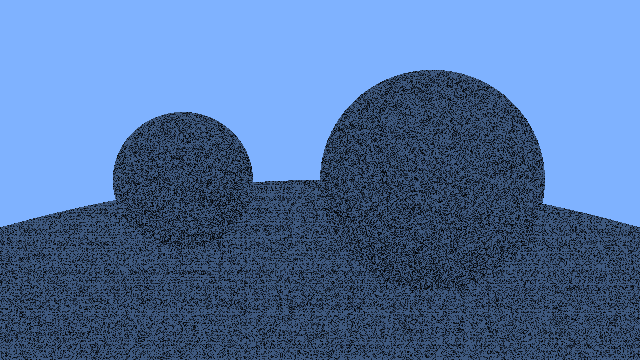
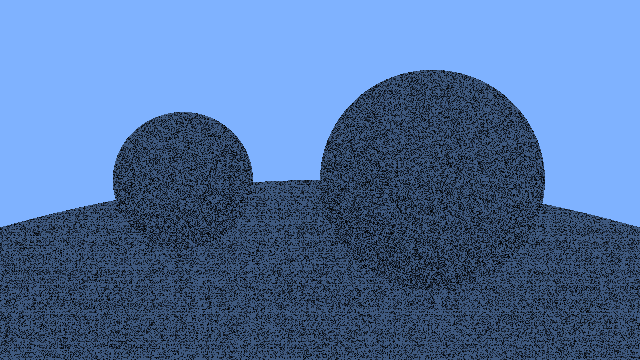
add anti aliasing

Changed region(s): [[0.0, 0.1833, 1.0, 1.0]]

diff --git a/camera/camera.go b/camera/camera.go
@@ -34,6 +34,7 @@ func NewCamera(center Point3, focalLength float64, ImageWidth float64, ImageHeig
     };
 }
 
+const samples = 100;
 const bounces = 200;
 var rng = rand.New(rand.NewSource(time.Now().Unix()));
 var white = NewVec3(1, 1, 1);
@@ -92,15 +93,41 @@ func (self Camera) cast(ray Ray, scene []Object, bounces int) Vec3 {
         );
         return self.cast(nray, scene, bounces-1).Scale(0.5);
     }
-    return cyan;
+
+    unit := ray.Direction.Normalize();
+    p := (unit.Y + 1) * 0.5;
+    return cyan.Scale(p).Add(white.Scale(1-p));
+}
+
+func (self Camera) getRay(u, v float64) Ray {
+    deviX, deviY := rng.Float64() - 0.5, rng.Float64() - 0.5;
+    origin := self.pixel00.Add(self.du.Scale(u+deviX)).Add(self.dv.Scale(v+deviY));
+    return NewRay(
+        origin,
+        origin.Sub(self.Center),
+    );
 }
 
 func (self Camera) Trace(u, v float64, scene []Object) Vec3 {
-    pixelCenter := self.pixel00.Add(self.du.Scale(u)).Add(self.dv.Scale(v));
-    ray := NewRay(
-        pixelCenter,
-        pixelCenter.Sub(self.Center),
+    var color Vec3;
+    for range samples {
+        ray := self.getRay(u, v);
+        color = color.Add(self.cast(ray, scene, bounces));
+    }
+    color = color.Scale(1/float64(samples));
+    return NewVec3(
+        clamp(color.X, 0, 1),
+        clamp(color.Y, 0, 1),
+        clamp(color.Z, 0, 1),
     );
+}
 
-    return self.cast(ray, scene, bounces);
+func clamp(value, min, max float64) float64 {
+    if value > max {
+        return max;
+    }
+    if value < min {
+        return min;
+    }
+    return value;
 }

diff --git a/main.go b/main.go
@@ -46,7 +46,7 @@ func main() {
             output.Set(x, y, convertColor(color));
         }
     }
-    filepath := "output/diffuse.png";
+    filepath := "output/anti-aliasing.png";
     err := pngExport(filepath, output);
     if err != nil {
         log.Fatalln(err);
